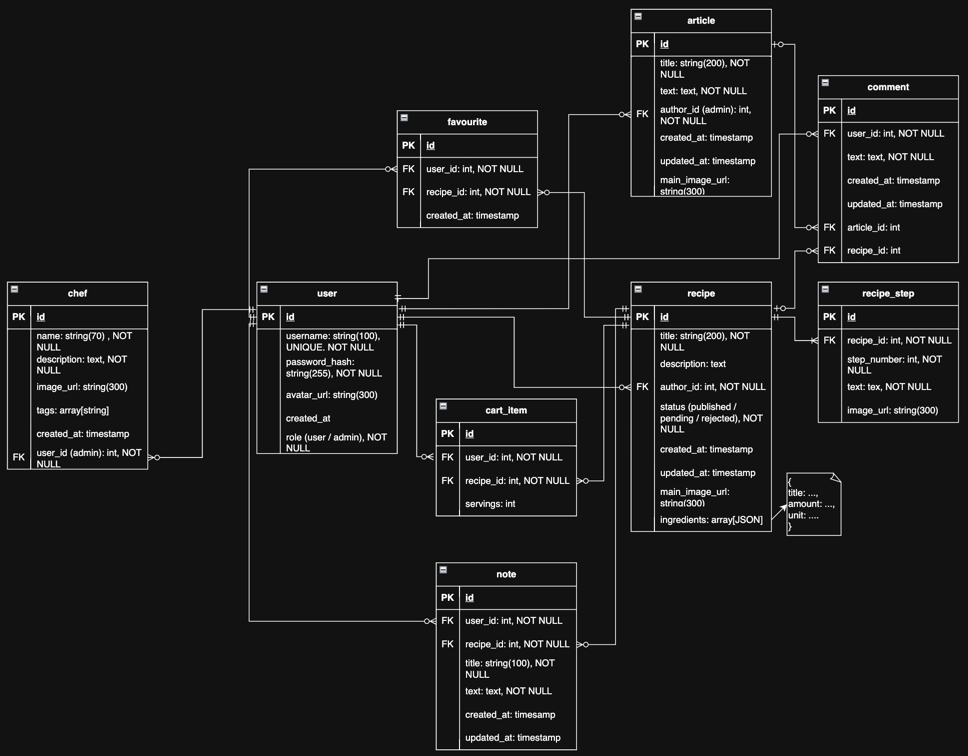
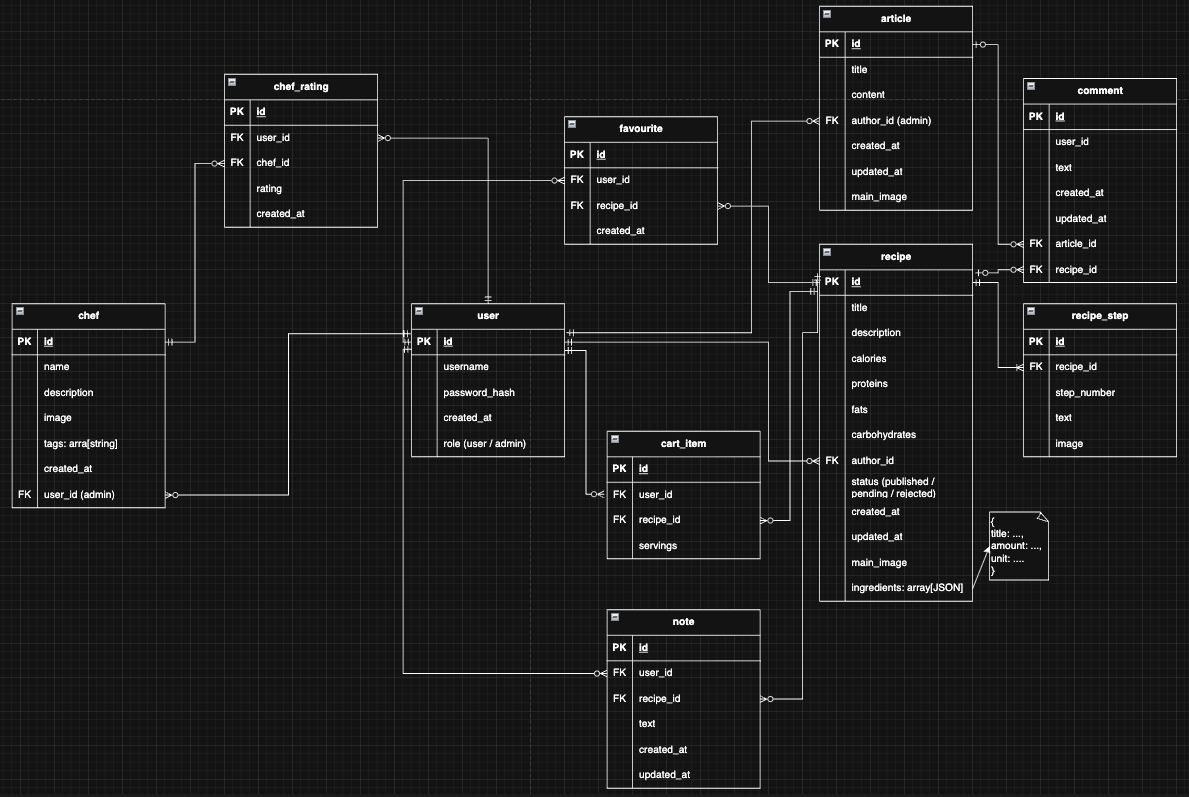
#26 Доработка docusaurus документации и БД под фичи рейтинга повара и КБЖУ рецепта

diff --git a/docs-site/docs/database/models.md b/docs-site/docs/database/models.md
@@ -6,7 +6,7 @@
 
 ## Recipe
 
-Рецепт пользователя. Содержит название, описание, статус, автора, ингредиенты, главное изображение и даты создания и изменения.
+Рецепт пользователя. Содержит название, описание, статус, автора, ингредиенты, КБЖУ, главное изображение и даты создания и изменения.
 
 ## RecipeStep
 
@@ -36,3 +36,7 @@
 
 Статья о поваре. Содержит автора, имя повара, описание, ссылку на изображение, теги, а также дату создания.
 
+
+## ChefRating
+
+Связь User и Chef -> оценка повара пользователем. Содержит пользователя, повара, оценку (от 1 до 5) и дату создания.

diff --git a/docs-site/docs/database/relationships.md b/docs-site/docs/database/relationships.md
@@ -7,4 +7,5 @@
 - `User` → `Favorite` → `Recipe`: многие ко многим через промежуточную таблицу.
 - `User` → `CartItem` → `Recipe`: связь корзины пользователя с рецептами.
 - `User` → `Note` → `Recipe`: связь заметки пользователя с рецептом.
+- `User` -> `ChefRating` -> `Chef`: связь для хранения оценок повара от пользователя
 - `Recipe` → `Comment`: один ко многим.